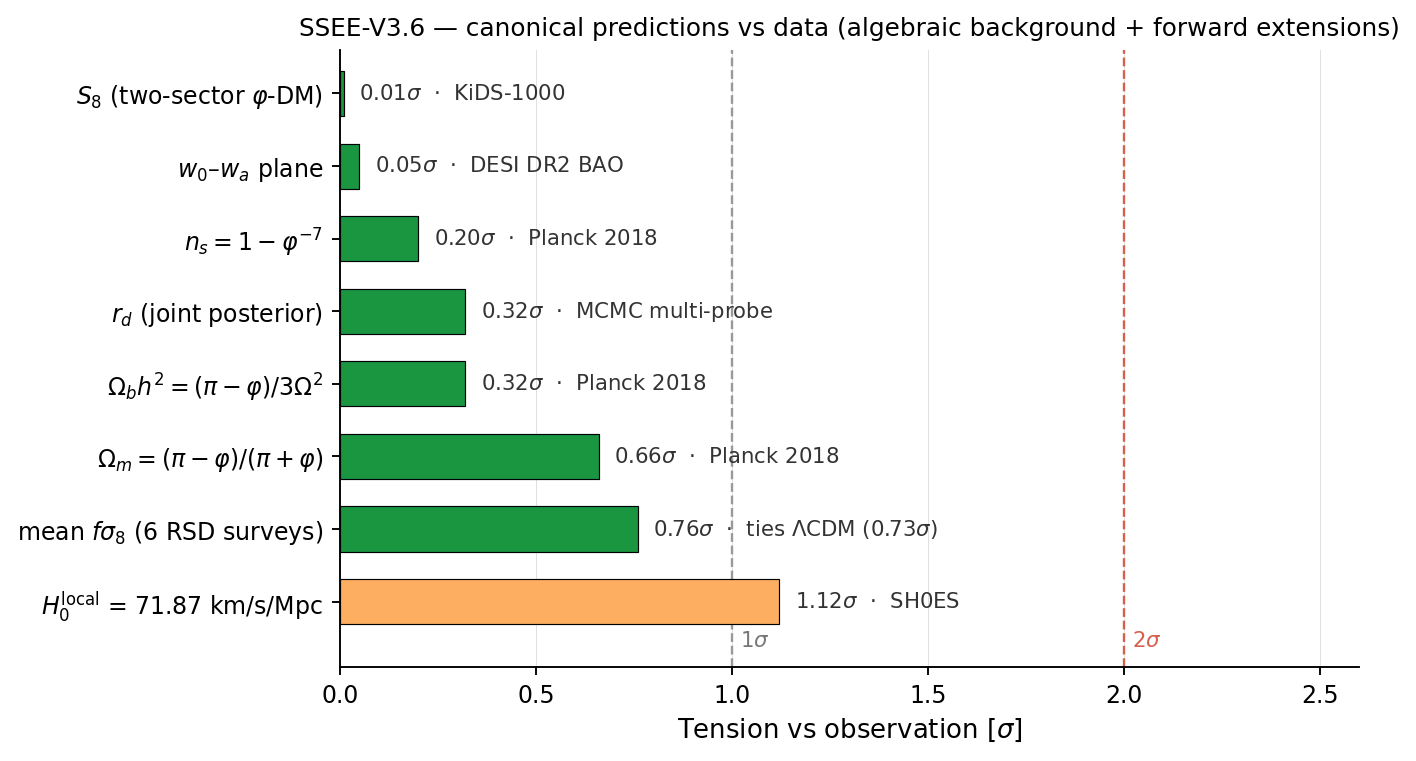
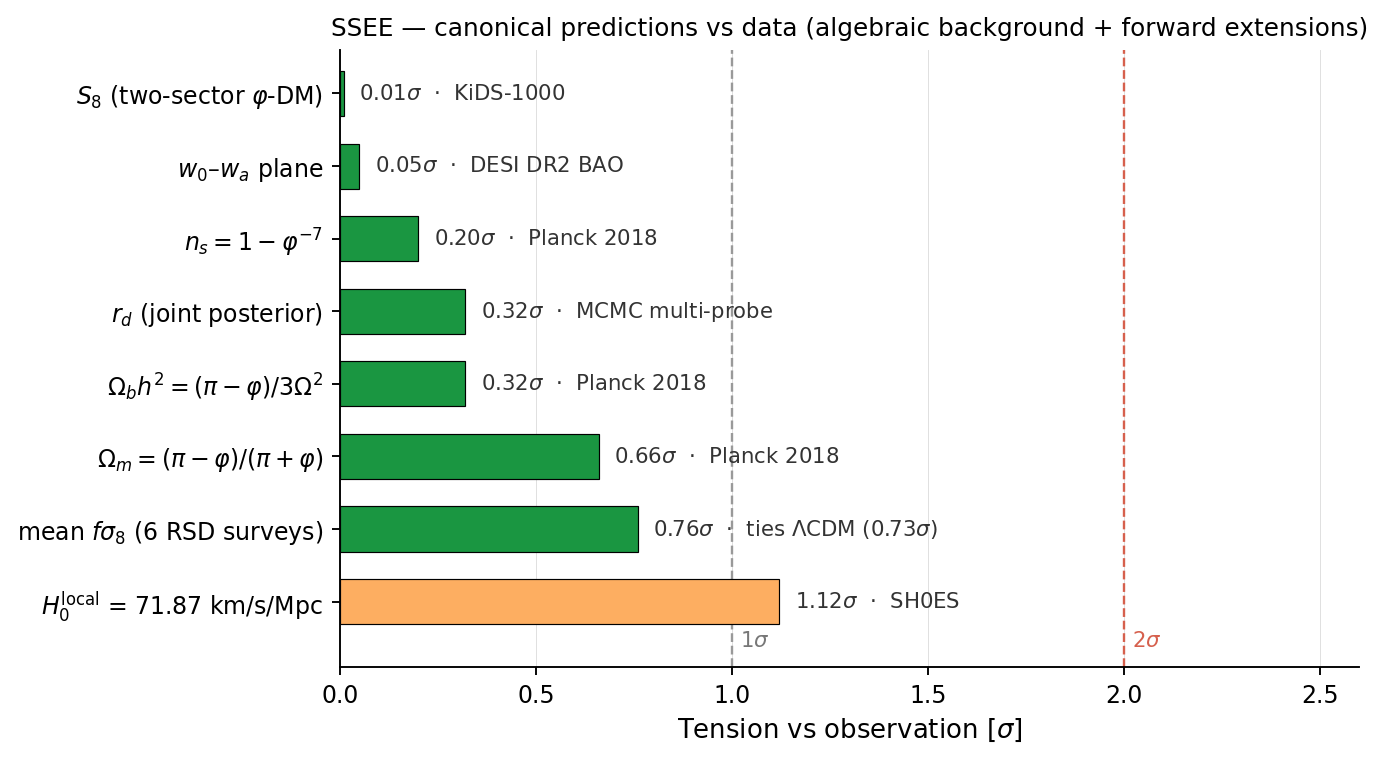
docs(branding): cara pública solo 'SSEE' — V3.6 queda en papers/Ledger/changelogs

diff --git a/src/ssee_banner_svg.py b/src/ssee_banner_svg.py
@@ -141,7 +141,7 @@ svg = f'''<svg xmlns="http://www.w3.org/2000/svg" viewBox="0 0 {W} {H}" font-fam
 <path class="spiral" d="{spiral_d}"/>
 
 <g text-anchor="middle">
-  <text x="540" y="128" class="title" filter="url(#glow)">SSEE — V3.6</text>
+  <text x="540" y="128" class="title" filter="url(#glow)">SSEE</text>
   <text x="540" y="166" class="sub">Structural Self-Energy Expansion · dark energy from φ and π</text>
   <text x="540" y="200" class="nums">w₀ = −0.840 · wₐ = −0.670 · ~3 effective parameters · 0.05σ vs DESI DR2</text>
   <text x="540" y="262" class="motto">geometric perfection underlies it — imperfection lets matter evolve</text>

diff --git a/src/ssee_readme_tensions_figure.py b/src/ssee_readme_tensions_figure.py
@@ -46,7 +46,7 @@ ax.set_yticks(range(len(labels)))
 ax.set_yticklabels(labels, fontsize=10)
 ax.set_xlabel(r'Tension vs observation [$\sigma$]', fontsize=11)
 ax.set_xlim(0, 2.6)
-ax.set_title('SSEE-V3.6 — canonical predictions vs data (algebraic background + forward extensions)',
+ax.set_title('SSEE — canonical predictions vs data (algebraic background + forward extensions)',
              fontsize=10.5)
 ax.set_ylim(-0.9, len(sig)-0.4)
 ax.grid(axis='x', lw=0.4, alpha=0.4, zorder=0)
